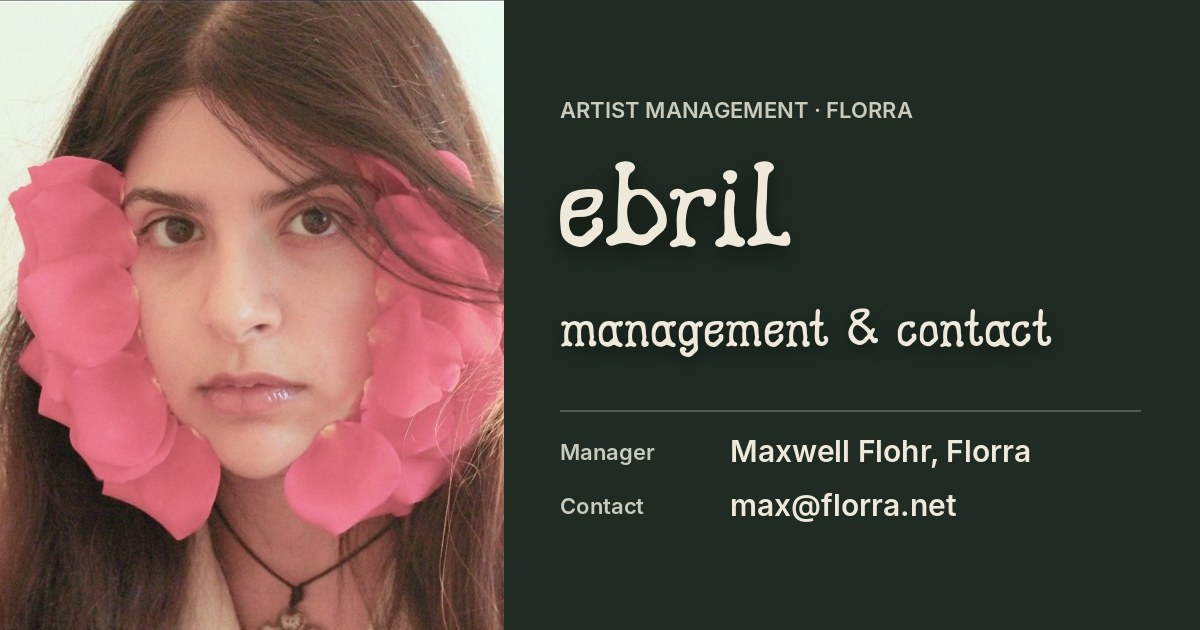
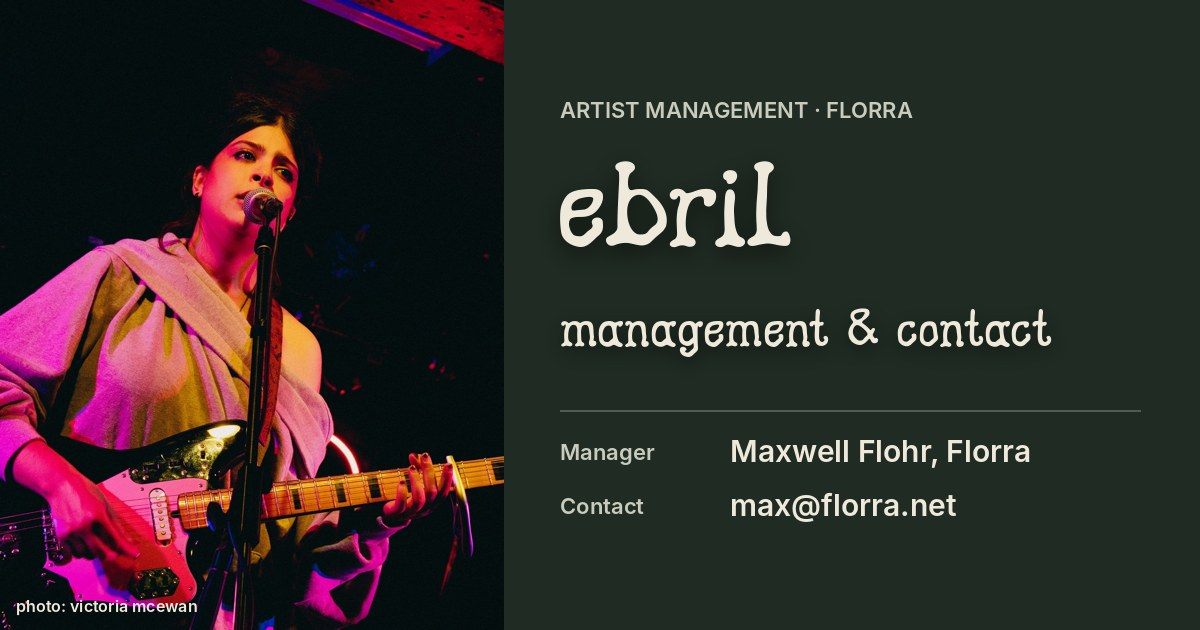
Polish preview: Ebril live photo (Victoria McEwan), WebP images, lighter fonts, focus rings, hero contact line, 404 noindex

diff --git a/mgmt/index.html b/mgmt/index.html
@@ -21,7 +21,7 @@
 <link rel="icon" href="/apple-touch-icon.png">
 <link rel="apple-touch-icon" href="/apple-touch-icon.png">
 <link rel="preconnect" href="https://fonts.googleapis.com"><link rel="preconnect" href="https://fonts.gstatic.com" crossorigin>
-<link rel="stylesheet" href="https://fonts.googleapis.com/css2?family=Instrument+Sans:wght@500;600;700&display=swap">
+<link rel="preload" href="/assets/california-hills.webp" as="image" type="image/webp">
 <link rel="preload" href="/assets/fonts/fable-dust.woff2" as="font" type="font/woff2" crossorigin>
 <script type="application/ld+json">{"@context":"https://schema.org","@type":"Organization","name":"florra","legalName":"florra llc","url":"https://www.florra.net/","email":"max@florra.net","founder":{"@type":"Person","name":"Max Flohr"}}</script>
 <!-- Google tag (gtag.js) -->
@@ -63,7 +63,7 @@ header nav a:hover{border-bottom-color:currentColor}
 
 /* hero */
 .hero{position:relative;min-height:92vh;display:grid;align-items:end;overflow:hidden;padding:150px 4.5vw 9vh;
-  background:linear-gradient(180deg,rgba(32,44,35,.35) 0%,rgba(32,44,35,.55) 55%,var(--forest) 100%),url(/assets/california-hills.jpg) center/cover no-repeat}
+  background:linear-gradient(180deg,rgba(32,44,35,.35) 0%,rgba(32,44,35,.55) 55%,var(--forest) 100%),url(/assets/california-hills.webp) center/cover no-repeat}
 .hero .rose{position:absolute;right:6vw;bottom:-4vh;height:88vh;max-height:980px;opacity:.95;pointer-events:none;
   filter:drop-shadow(0 30px 60px rgba(0,0,0,.35))}
 .hero-copy{position:relative;z-index:2;max-width:820px}
@@ -119,7 +119,7 @@ footer{display:flex;justify-content:space-between;padding:26px 4.5vw;border-top:
 @media (prefers-reduced-motion:reduce){.artist img{transition:none}}
 /* ---- type: fable dust headlines + instrument sans (option b, picked nov 22) ---- */
 /* real font weights instead of the outline/shadow trick */
-:root{--reading:'Instrument Sans',Arial,sans-serif;--label:'Instrument Sans',Arial,sans-serif;
+:root{--reading:'Inter',Arial,sans-serif;--label:'Inter',Arial,sans-serif;
   --heft-display:.03em;--heft-reading:0;--heft-label:0;
   /* deep cast shadow: a tight contact shadow plus a long soft fall */
   --thick-display:0 .035em .01em rgba(0,0,0,.45),0 .09em .18em rgba(0,0,0,.5),0 .18em .45em rgba(0,0,0,.45);
@@ -127,7 +127,7 @@ footer{display:flex;justify-content:space-between;padding:26px 4.5vw;border-top:
   --thick-label:0 1px 1px rgba(0,0,0,.5),0 2px 5px rgba(0,0,0,.45)}
 body{-webkit-text-stroke:0;text-shadow:var(--thick-reading);font-weight:500;font-size:18px;line-height:1.6}
 .label{font-weight:700}
-header nav a,.artist .more{font-family:'Instrument Sans',sans-serif;font-weight:600;font-size:14px}
+header nav a,.artist .more{font-family:'Inter',sans-serif;font-weight:600;font-size:14px}
 
 /* faq */
 .faq{border-top:1px solid var(--rule)}
@@ -137,7 +137,7 @@ header nav a,.artist .more{font-family:'Instrument Sans',sans-serif;font-weight:
 .faq-item p{color:#dcdccf;font-size:17px}
 @media (max-width:900px){.faq-list{grid-template-columns:1fr;gap:34px}}
 </style>
-<link rel="stylesheet" href="https://fonts.googleapis.com/css2?family=Fraunces:opsz,wght,SOFT,WONK@9..144,100..900,0..100,0..1&family=Inter:wght@500;600;700&display=swap">
+<link rel="stylesheet" href="https://fonts.googleapis.com/css2?family=Fraunces:opsz,wght,SOFT,WONK@144,300,0,0&family=Inter:wght@500;600;700&display=swap">
 <link rel="stylesheet" href="/type.css">
 </head>
 <body>
@@ -149,11 +149,12 @@ header nav a,.artist .more{font-family:'Instrument Sans',sans-serif;font-weight:
 
 <main>
   <section class="hero" aria-labelledby="hero-title">
-    <img class="rose" src="/assets/rose-botanical.png" alt="" aria-hidden="true">
+    <img class="rose" src="/assets/rose-botanical.webp" alt="" aria-hidden="true" width="768" height="1152" fetchpriority="high" decoding="async">
     <div class="hero-copy">
       <p class="label">artist management · southern california</p>
       <h1 id="hero-title">a small roster, <em>looked after closely.</em></h1>
       <p class="intro">the artist comes first. creator seeding at volume, fast informal deals, and a back office built on our own tools.</p>
+      <p class="hero-cta"><a href="mailto:max@florra.net">management enquiries: max@florra.net</a></p>
     </div>
   </section>
 
@@ -164,7 +165,7 @@ header nav a,.artist .more{font-family:'Instrument Sans',sans-serif;font-weight:
     </div>
     <div class="roster">
       <article class="artist">
-        <figure><img src="/assets/roster/ridgeclub.jpg" alt="Abhi of Ridgeclub holding a saxophone among trees" width="1600" height="1143" loading="lazy"><span class="num label">01</span><figcaption class="credit">photo: stella gigliotti</figcaption></figure>
+        <figure><img src="/assets/roster/ridgeclub.webp" alt="Abhi of Ridgeclub holding a saxophone among trees" width="1080" height="772" decoding="async" loading="lazy"><span class="num label">01</span><figcaption class="credit">photo: stella gigliotti</figcaption></figure>
         <div class="body">
           <h3>ridgeclub</h3>
           <span class="who label">abhi · saxophone</span>
@@ -174,7 +175,7 @@ header nav a,.artist .more{font-family:'Instrument Sans',sans-serif;font-weight:
         </div>
       </article>
       <article class="artist">
-        <figure><img src="/assets/roster/ebril.jpg" alt="Ebril with pink rose petals framing her face" width="628" height="786" loading="lazy"><span class="num label">02</span></figure>
+        <figure><img src="/assets/roster/ebril.webp" alt="Ebril singing and playing guitar on stage" width="1080" height="1350" loading="lazy" decoding="async"><span class="num label">02</span><figcaption class="credit">photo: victoria mcewan</figcaption></figure>
         <div class="body">
           <h3>ebril</h3>
           <span class="who label">huda al-hamami · universal music canada</span>
@@ -184,7 +185,7 @@ header nav a,.artist .more{font-family:'Instrument Sans',sans-serif;font-weight:
         </div>
       </article>
       <article class="artist">
-        <figure><img src="/assets/roster/mckayla.jpg" alt="McKayla Maroney looking over her shoulder against a red wall" width="1021" height="1176" loading="lazy"><span class="num label">03</span></figure>
+        <figure><img src="/assets/roster/mckayla.webp" alt="McKayla Maroney looking over her shoulder against a red wall" width="1021" height="1176" loading="lazy" decoding="async"><span class="num label">03</span></figure>
         <div class="body">
           <h3>mckayla maroney</h3>
           <span class="who label">music · livestream · writing</span>

diff --git a/mgmt/type.css b/mgmt/type.css
@@ -1,6 +1,8 @@
 /* florra type: Fraunces light display (SOFT 0, high opsz), Inter body. Wordmark stays Fable Dust. */
 :root body{text-shadow:0 1px 1px rgba(0,0,0,.45),0 3px 8px rgba(0,0,0,.35)}
 :root h1,:root h2,:root h3,:root .contact a.mail{-webkit-text-stroke:0}
+/* Inter everywhere the old Instrument Sans was used (labels, nav, dt, footer) */
+:root{--reading:'Inter',Arial,sans-serif;--label:'Inter',Arial,sans-serif}
 /* A: Fraunces thin and tall. Light weight, sharp display cut (high opsz, SOFT 0), tight tracking, bigger sizes. Inter body */
 :root h1,:root h2,:root h3,:root .contact a.mail{font-family:'Fraunces',Georgia,serif;font-weight:300;font-variation-settings:'SOFT' 0,'WONK' 0,'opsz' 144;letter-spacing:-.035em;text-transform:none}
 :root body,:root .label,:root header nav a,:root .artist .more{font-family:'Inter',Arial,sans-serif}
@@ -12,3 +14,11 @@
 :root .section-head h2,:root .contact h2{font-size:clamp(48px,7.6vw,116px);line-height:1}
 :root .artist h3{font-size:52px;line-height:1}
 :root .artist-page h1{font-size:clamp(52px,7vw,112px);line-height:1}
+/* keyboard focus: visible ring on every link and button */
+a:focus-visible,button:focus-visible{outline:2px solid #efe9dc;outline-offset:4px;border-radius:2px}
+/* artist subtitle: lift copper to clear 4.5:1 on forest */
+.artist .who{filter:brightness(1.55)}
+/* hero contact line: one quiet, tappable way in */
+.hero-cta{margin-top:28px}
+.hero-cta a{display:inline-block;font-family:'Inter',Arial,sans-serif;font-weight:600;font-size:15px;letter-spacing:.04em;color:#efe9dc;text-decoration:none;border-bottom:1px solid rgba(239,233,220,.6);padding:6px 0}
+.hero-cta a:hover{border-bottom-color:#efe9dc}
